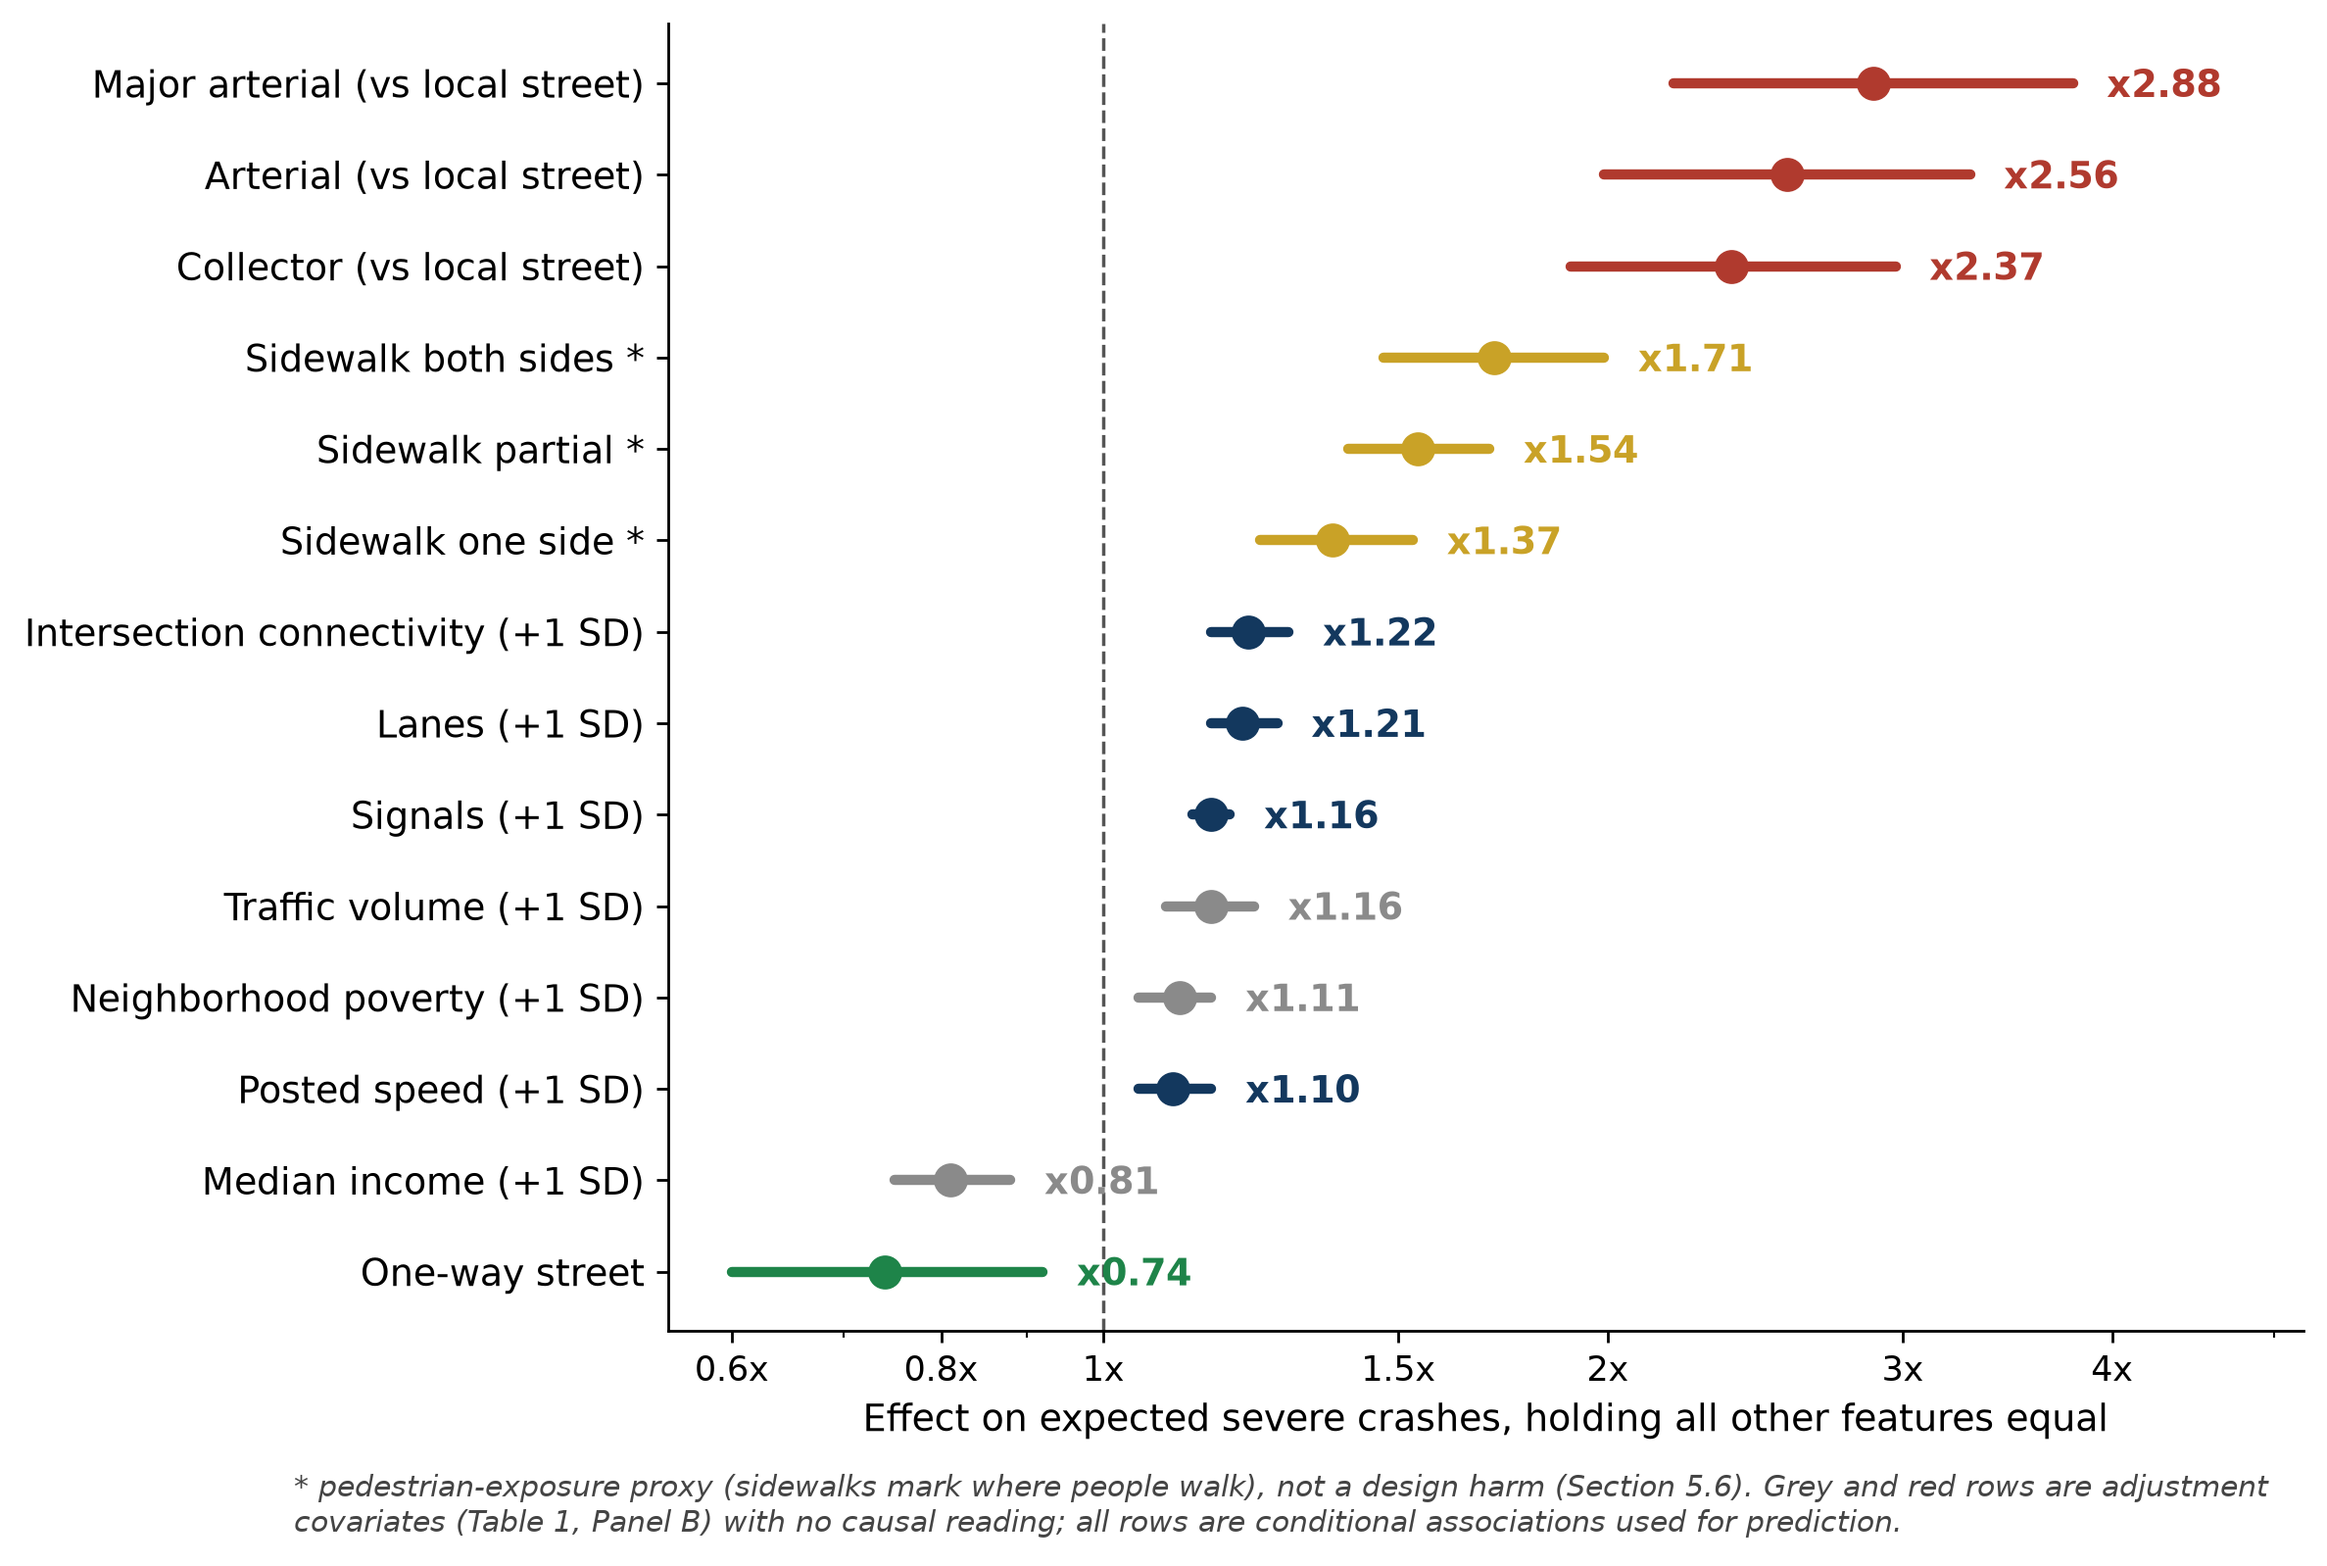
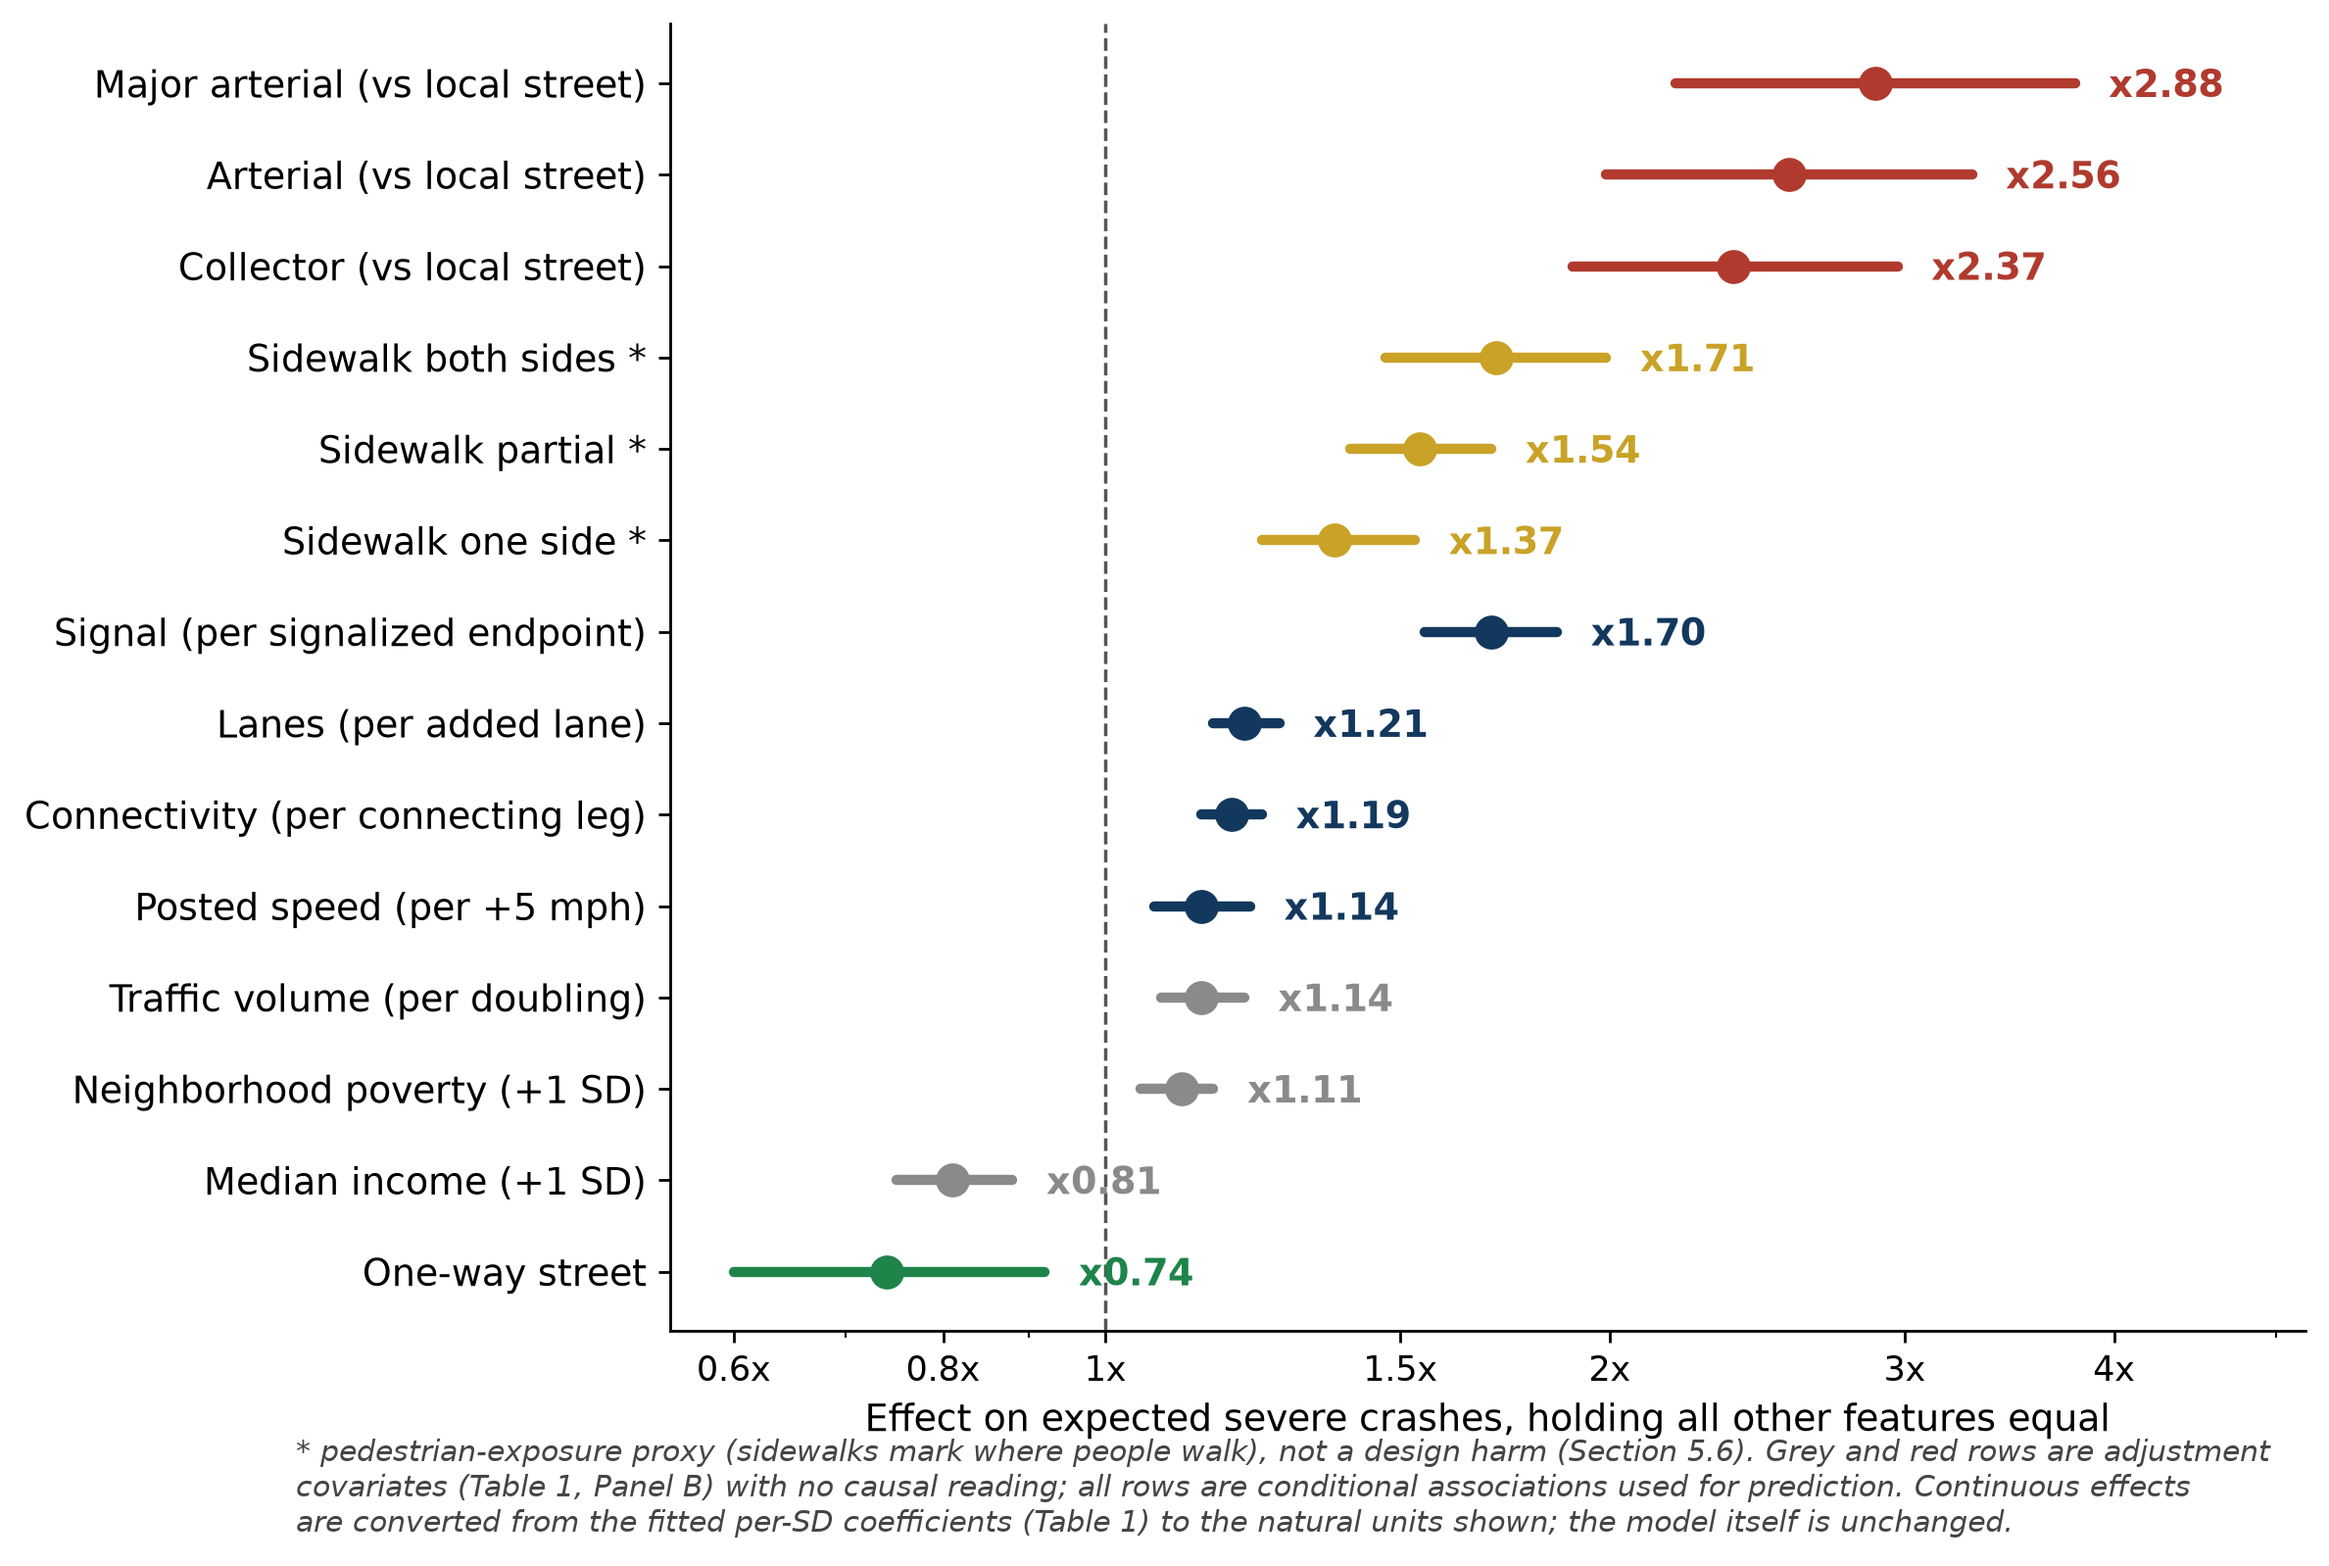
Figure 2: continuous effects in natural units instead of per-SD
n_signals takes only values 0/1/2 (SD 0.28), so "+1 SD of signals"
describes no real street. Per-unit IRRs are the per-SD IRRs raised to
unit/SD (CI bounds likewise): per signalized endpoint 1.70, per lane
1.21, per connecting leg 1.19, per +5 mph 1.14, per traffic doubling
1.14. No refit; Table 1 keeps the per-SD scale; SES rows stay per-SD.
Categorical signals coding queued as post-submission sensitivity.

diff --git a/src/plot_irr_forest.py b/src/plot_irr_forest.py
@@ -1,8 +1,13 @@
 """Paper Figure 2: forest plot of Table 1 incidence-rate ratios.
 
-Values are Table 1 of the TRB draft (NB2, cluster-robust CIs; continuous
-effects per +1 SD). Footnote language is paper-appropriate (review round:
-the old render referenced 'the caveat slide', deck language).
+Values are Table 1 of the TRB draft (NB2, cluster-robust CIs). Design and
+exposure rows are converted from the model's per-SD scale to natural units
+(per lane, per signalized endpoint, per 5 mph, per doubling of traffic,
+per connecting leg): the linear fit is unchanged, the per-unit IRR is the
+per-SD IRR raised to unit/SD, and CI bounds convert with the same
+exponent. SDs are post-imputation on the modeled network (segments_model
+.gpkg, matching model_nb.prepare): lanes 1.0148, speed 3.7211, signals
+0.2806, deg_sum 1.1703, log_adt 0.7663. SES adjustment rows stay per +1 SD.
 
 Outputs: reports/irr_forest.png
 """
@@ -16,20 +21,20 @@ import config as cfg
 NAVY, GOLD, RED, GREY, GREEN = "#13385E", "#C9A227", "#B03A2E", "#8A8A8A", "#1E8449"
 
 ROWS = [  # label, irr, lo, hi, color
-    ("Major arterial (vs local street)", 2.88, 2.19, 3.79, RED),
-    ("Arterial (vs local street)",       2.56, 1.99, 3.29, RED),
-    ("Collector (vs local street)",      2.37, 1.90, 2.97, RED),
-    ("Sidewalk both sides *",            1.71, 1.47, 1.99, GOLD),
-    ("Sidewalk partial *",               1.54, 1.40, 1.70, GOLD),
-    ("Sidewalk one side *",              1.37, 1.24, 1.53, GOLD),
-    ("Intersection connectivity (+1 SD)", 1.22, 1.16, 1.29, NAVY),
-    ("Lanes (+1 SD)",                    1.21, 1.16, 1.27, NAVY),
-    ("Signals (+1 SD)",                  1.16, 1.13, 1.19, NAVY),
-    ("Traffic volume (+1 SD)",           1.16, 1.09, 1.23, GREY),
-    ("Neighborhood poverty (+1 SD)",     1.11, 1.05, 1.16, GREY),
-    ("Posted speed (+1 SD)",             1.10, 1.05, 1.16, NAVY),
-    ("Median income (+1 SD)",            0.81, 0.75, 0.88, GREY),
-    ("One-way street",                   0.74, 0.60, 0.92, GREEN),
+    ("Major arterial (vs local street)",   2.88, 2.19, 3.79, RED),
+    ("Arterial (vs local street)",         2.56, 1.99, 3.29, RED),
+    ("Collector (vs local street)",        2.37, 1.90, 2.97, RED),
+    ("Sidewalk both sides *",              1.71, 1.47, 1.99, GOLD),
+    ("Sidewalk partial *",                 1.54, 1.40, 1.70, GOLD),
+    ("Sidewalk one side *",                1.37, 1.24, 1.53, GOLD),
+    ("Signal (per signalized endpoint)",   1.70, 1.55, 1.86, NAVY),
+    ("Lanes (per added lane)",             1.21, 1.16, 1.27, NAVY),
+    ("Connectivity (per connecting leg)",  1.19, 1.14, 1.24, NAVY),
+    ("Posted speed (per +5 mph)",          1.14, 1.07, 1.22, NAVY),
+    ("Traffic volume (per doubling)",      1.14, 1.08, 1.21, GREY),
+    ("Neighborhood poverty (+1 SD)",       1.11, 1.05, 1.16, GREY),
+    ("Median income (+1 SD)",              0.81, 0.75, 0.88, GREY),
+    ("One-way street",                     0.74, 0.60, 0.92, GREEN),
 ]
 
 fig, ax = plt.subplots(figsize=(9.6, 6.4))
@@ -53,7 +58,9 @@ fig.text(0.13, 0.015,
          "* pedestrian-exposure proxy (sidewalks mark where people walk), "
          "not a design harm (Section 5.6). Grey and red rows are adjustment\n"
          "covariates (Table 1, Panel B) with no causal reading; all rows are "
-         "conditional associations used for prediction.",
+         "conditional associations used for prediction. Continuous effects\n"
+         "are converted from the fitted per-SD coefficients (Table 1) to the "
+         "natural units shown; the model itself is unchanged.",
          fontsize=8.5, style="italic", color="#444444")
 fig.tight_layout(rect=(0, 0.05, 1, 1))
 out = cfg.REPORTS / "irr_forest.png"

diff --git a/LOG.md b/LOG.md
@@ -4,6 +4,12 @@ Dated record of what was done, what was decided, and why. Newest entries at the 
 
 ---
 
+## 2026-07-13 — Figure 2 forest plot converted to natural units
+
+Vincent caught that "+1 SD of signals" describes no real street: n_signals only takes 0, 1, or 2, and with SD 0.28 a single signalized end is a +3.6 SD move. Fix: the forest plot now shows continuous design effects in engineer-readable units — per signalized endpoint (x1.70), per added lane (x1.21), per connecting leg (x1.19), per +5 mph (x1.14), per doubling of traffic (x1.14) — converted by raising each per-SD IRR (and its CI bounds) to the power unit/SD, using post-imputation SDs from the modeled network. Pure relabeling: no refit, no pipeline re-run, Table 1 keeps the per-SD scale (header already declares it), SES adjustment rows stay per-SD. Figure 2 caption in the paper documents the conversion. A truly categorical signals coding (dummies for 1 and 2 ends, testing the equal-step assumption) is queued as a post-submission sensitivity.
+
+---
+
 ## 2026-07-11 (later) — Full code audit: every published number verified against the code
 
 Vincent asked for a top-to-bottom code audit of the research pipeline (dashboard excluded): "verify it actually does what we say it does." Five parallel audit agents each took a slice — statistical core, data pipeline, conflation, temporal/PSN analyses, and the one-off audit scripts — and checked every number the paper publishes against what the code actually computes.
